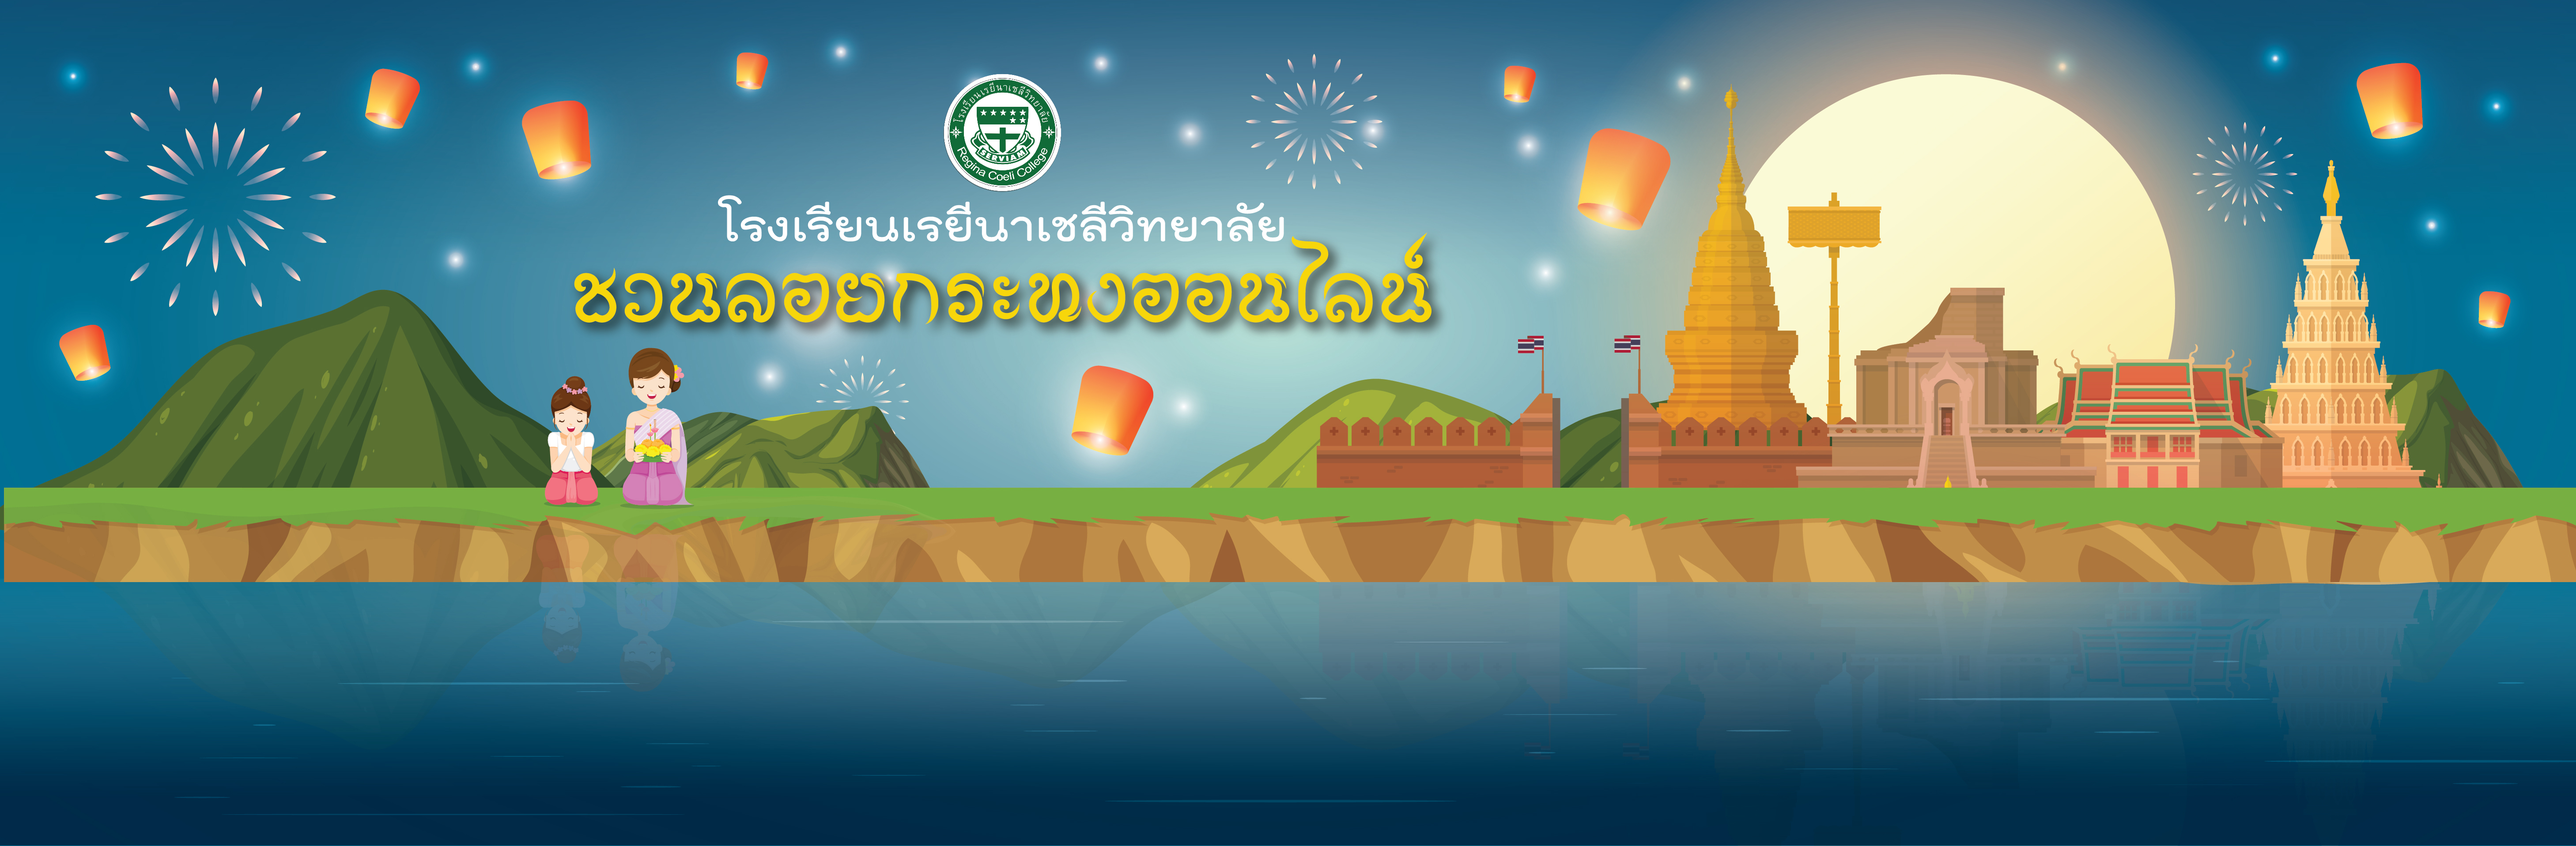
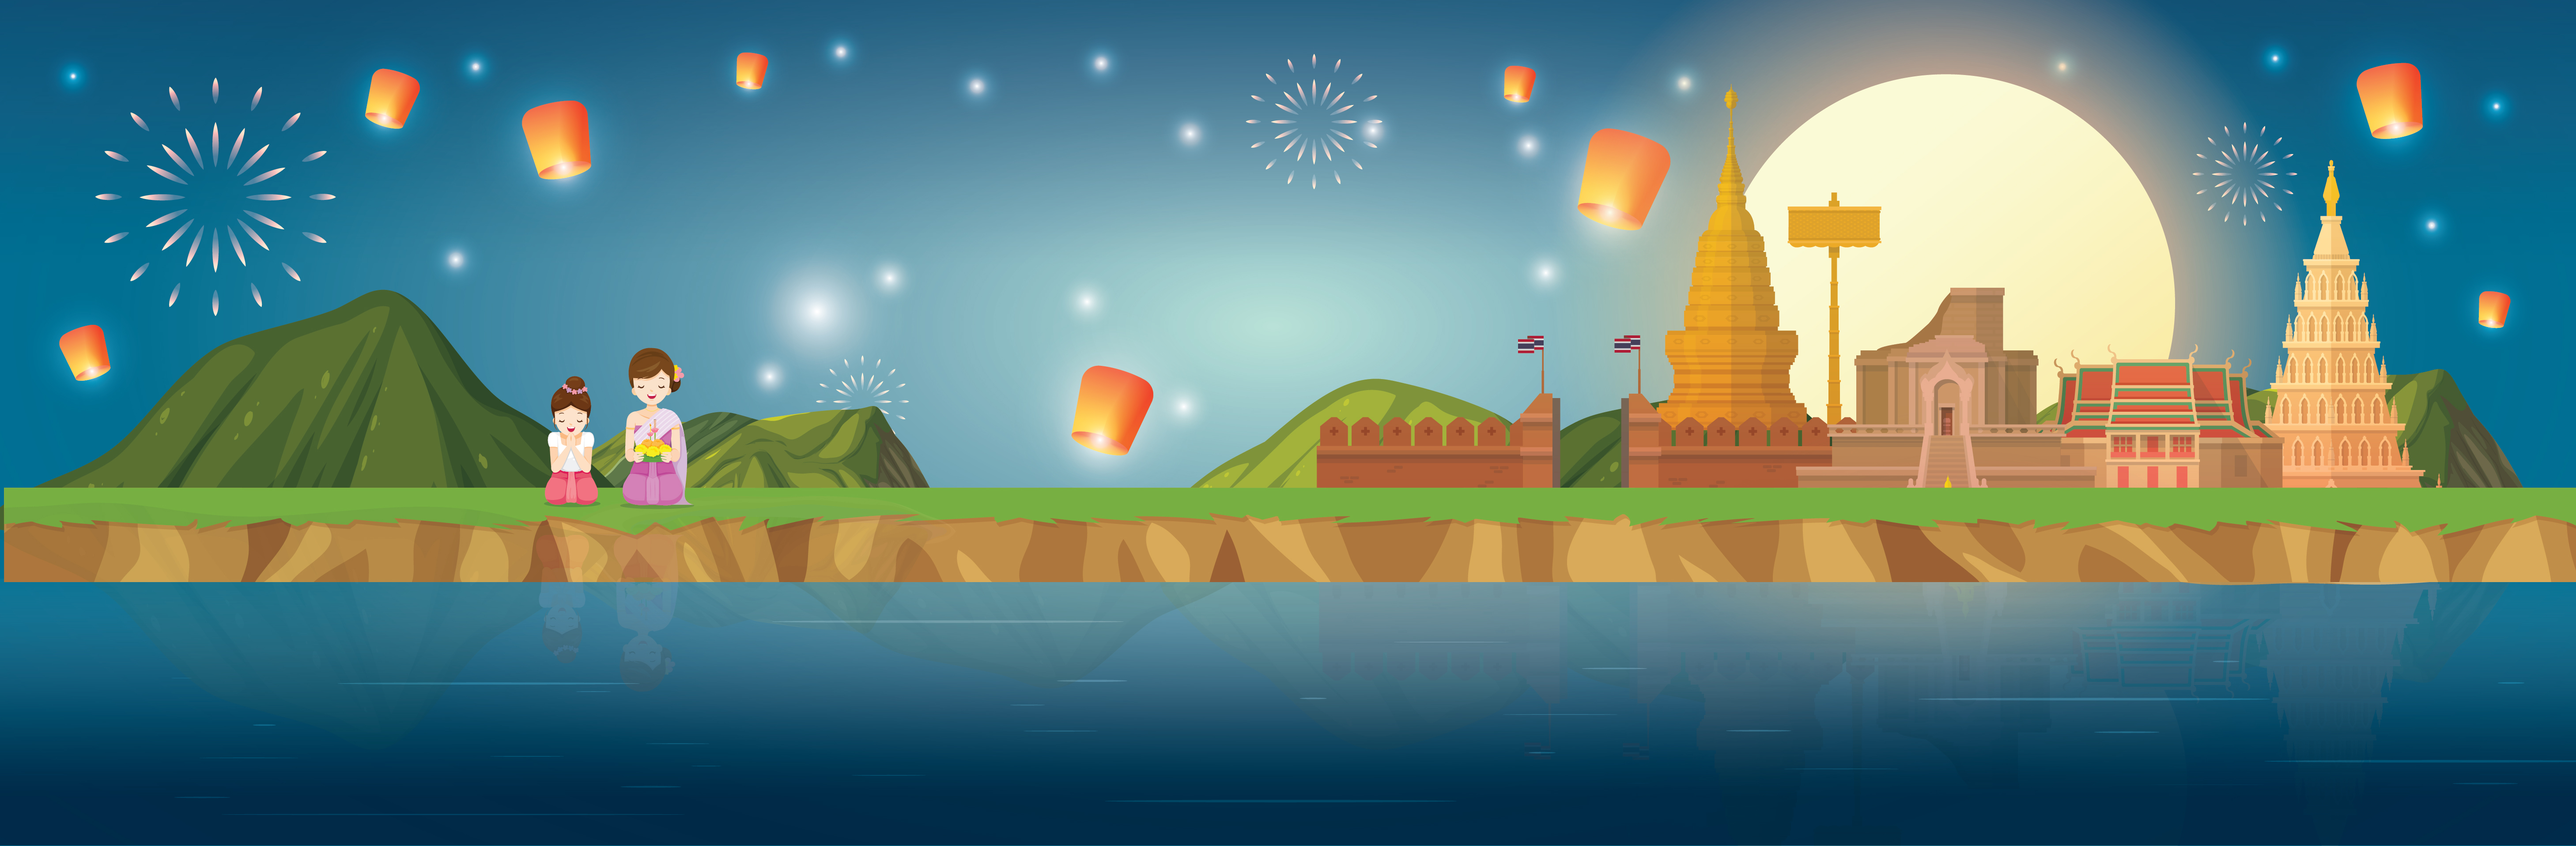
update 2023/11/26 112:45

Changed region(s): [[0.2184, 0.0923, 0.5615, 0.4001]]

diff --git a/public/krathong_js/app.css b/public/krathong_js/app.css
@@ -31,11 +31,14 @@
 }
 
 .bg-main #floating-lantern {
-  cursor: pointer;
+  /*cursor: pointer;*/
   position: relative;
-  float: right;
-  width: 13rem;
-  top: 4rem;
+  float: left;
+  right: 10px;
+  margin-left: 58px;
+  /*width: 13rem;*/
+  width: 400px;
+  top: 5rem;
 }
 
 

diff --git a/app/Views/welcome_message.php b/app/Views/welcome_message.php
@@ -13,6 +13,13 @@
 	<meta name="viewport" content="width=device-width, initial-scale=1, shrink-to-fit=no">
 	<title>ลอยกระทงออนไลน์ </title>
 
+	<meta property="og:url"           content="http://rc.regina.ac.th/Festival/krathong_online/" />
+	<meta property="og:type"          content="website" />
+	<meta property="og:title"         content="ชวนลอยกระทงออไลน์" />
+	<meta property="og:description"   content="Regina Coeli College" />
+    <meta property="og:image"         content="<?php echo base_url();?>/img/krathong.jpg" />
+
+
 	<!-- Global stylesheets -->
 	<link href="https://fonts.googleapis.com/css?family=Roboto:400,300,100,500,700,900" rel="stylesheet" type="text/css">
   
@@ -25,6 +32,8 @@
 	<script src="<?php echo base_url();?>/Template/global_assets/js/main/bootstrap.bundle.min.js"></script>
 	<!-- /core JS files -->
 
+	<div id="fb-root"></div>
+	<script async defer crossorigin="anonymous" src="https://connect.facebook.net/th_TH/sdk.js#xfbml=1&version=v18.0" nonce="JYOJky8t"></script>
 
 	<!-- Theme JS files -->
 	<script src="<?php echo base_url();?>/Template/global_assets/js/plugins/extensions/jquery_ui/core.min.js"></script>
@@ -73,7 +82,7 @@
 
 </head>
 
-<body style="background-color: #000000;">
+<body style="background-color: #012a4a;">
 
 	<!-- Page content -->
 	<div class="page-content">
@@ -103,9 +112,9 @@
 						</div>
 					</div>
 
-					<div class="row">
+					<div class="row" >
 						<div class="col-md-12">
-							<div class="card card-body border-top-dark">
+							<div class="card card-body border-top-dark" style="background-color: #0e5277;">
 							
 								<div class="row">
 
@@ -115,6 +124,13 @@
 												<div id="Print_Sum_Kra"></div>
 											</div>
 										</div>
+
+										<div class="card border border-purple">
+											<div class="card-header header-elements-inline bg-dark text-white">
+												<div class="fb-share-button" data-href="http://rc.regina.ac.th/Festival/krathong_online/" data-layout="" data-size=""><a target="_blank" href="https://www.facebook.com/sharer/sharer.php?u=http%3A%2F%2Frc.regina.ac.th%2FFestival%2Fkrathong_online%2F&amp;src=sdkpreparse" class="fb-xfbml-parse-ignore">แชร์</a></div>
+											</div>
+										</div>
+
 									</div>
 
 									<div class="col-md-9">
@@ -303,15 +319,14 @@
 				<!-- Footer -->
 				<div class="navbar navbar-expand-lg navbar-light border-bottom-0 border-top">
 					<div class="text-center d-lg-none w-100">
-						<button type="button" class="navbar-toggler dropdown-toggle" data-toggle="collapse" data-target="#navbar-footer">
-							<i class="icon-unfold mr-2"></i>
-							Footer
+						<button type="button" class="navbar-toggler " data-toggle="collapse" data-target="#navbar-footer">
+							&copy; 2023 <a href="http://www.regina.ac.th/">Regina Coeli College</a> by <a href="" target="_blank">Regina ICT</a>
 						</button>
 					</div>
 
-					<div class="navbar-collapse collapse" id="navbar-footer">
+					<div class="navbar-collapse collapse" >
 						<span class="navbar-text">
-							&copy; 2015 - 2018. <a href="#">Limitless Web App Kit</a> by <a href="https://themeforest.net/user/Kopyov" target="_blank">Eugene Kopyov</a>
+							&copy; 2023 <a href="http://www.regina.ac.th/">Regina Coeli College</a> by <a href="" target="_blank">Regina ICT</a>
 						</span>
 					</div>
 				</div>

diff --git a/app/Views/run_kra_jquery/running_krathong.php b/app/Views/run_kra_jquery/running_krathong.php
@@ -179,8 +179,10 @@
             }*/
     </style>
 
-    <div class="bg-main bg-province1">
+    <div class="bg-main bg-province1" style="background-color: #012a4a;">
      
+                    <img id="floating-lantern" src="<?php echo base_url();?>/img/rc.png" class="rounded" alt="rc">
+
                  <div class="river">
 
         <?php
